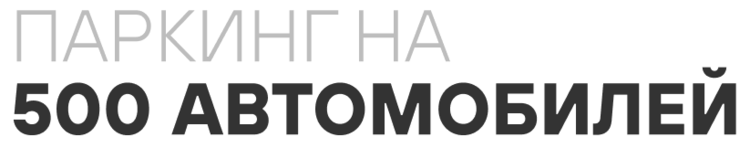
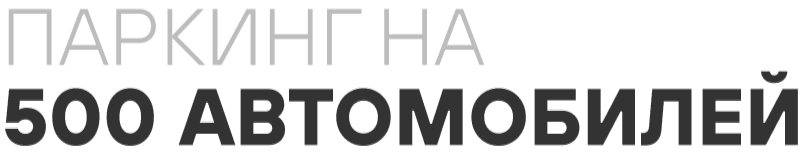
сделана адаптивность паркинга

diff --git a/assets/style/style.css b/assets/style/style.css
@@ -699,9 +699,19 @@ body {
 
 /* Паркинг начало */
 
+.content-grow {
+    margin-left: 10%;
+    margin-right: 10%;
+}
+
+.content-grow img {
+    width: 100%;
+}
+
 .parking__h1 img {
     text-align: left;
-    max-width: 60%;
+    width: auto;
+    height: 200px;
     padding-top: 3rem;
     padding-bottom: 2rem; 
 }
@@ -709,6 +719,7 @@ body {
 .parking__start-pic img,
 .parking__end-pic img {
     display: block;
+    text-align: center;
     padding-top: 2rem;
     padding-bottom: 2rem;
 }
@@ -730,6 +741,47 @@ body {
     max-width: 60%;
     padding-left: 50px;
 }
+
+@media all and (max-width: 1170px) {
+
+    .content-grow {
+        margin-right: 1rem;
+        margin-left: 1rem;
+    }
+
+    .parking__flex {
+        flex-direction: column-reverse;
+    }
+
+    .parking__flex p {
+        max-width: 95%;
+        padding-left: 0;
+        padding-top: 1rem;
+    }
+
+    .parking__flex {
+        margin-top: 10px;
+        margin-bottom: 10px;
+    }
+
+    .parking__start-pic img,
+    .parking__end-pic img {
+    padding-bottom: 0;
+    }
+}
+
+@media all and (max-width: 690px) {
+    .parking__h1 img {
+        text-align: center;
+        max-width: 100%;
+        padding-top: 7rem;
+        padding-bottom: 1rem; 
+    }
+}
+
+
+
+
 /* Паркинг конец */
 
 

diff --git a/parking.html b/parking.html
@@ -24,7 +24,7 @@
         </div>
     </header>
     <div class="content-grow">
-        <div class="parking__h1"><img src="assets/img/parking__h1.PNG" alt=""></div>
+        <div class="parking__h1"><img src="assets/img/parking__h1.png" alt=""></div>
         <div class="parking__start-pic">
             <img src="assets/img/parking__pic1.jpg" alt="">
         </div>
